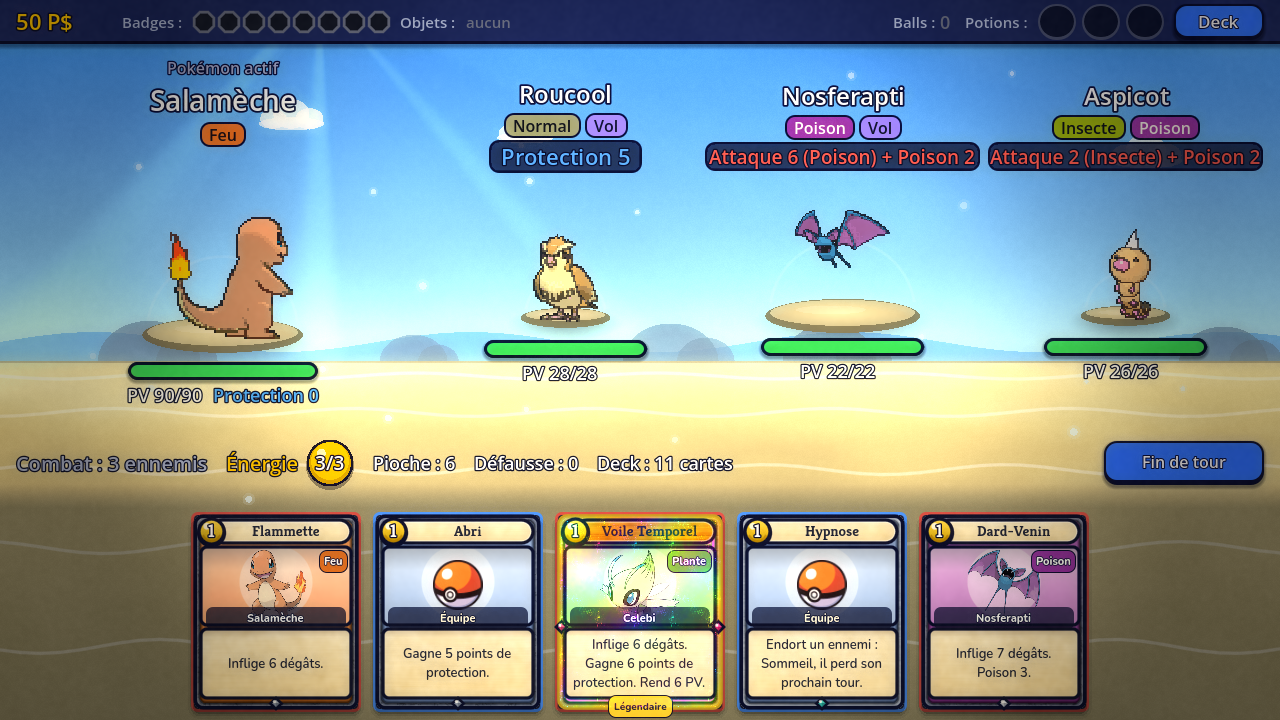
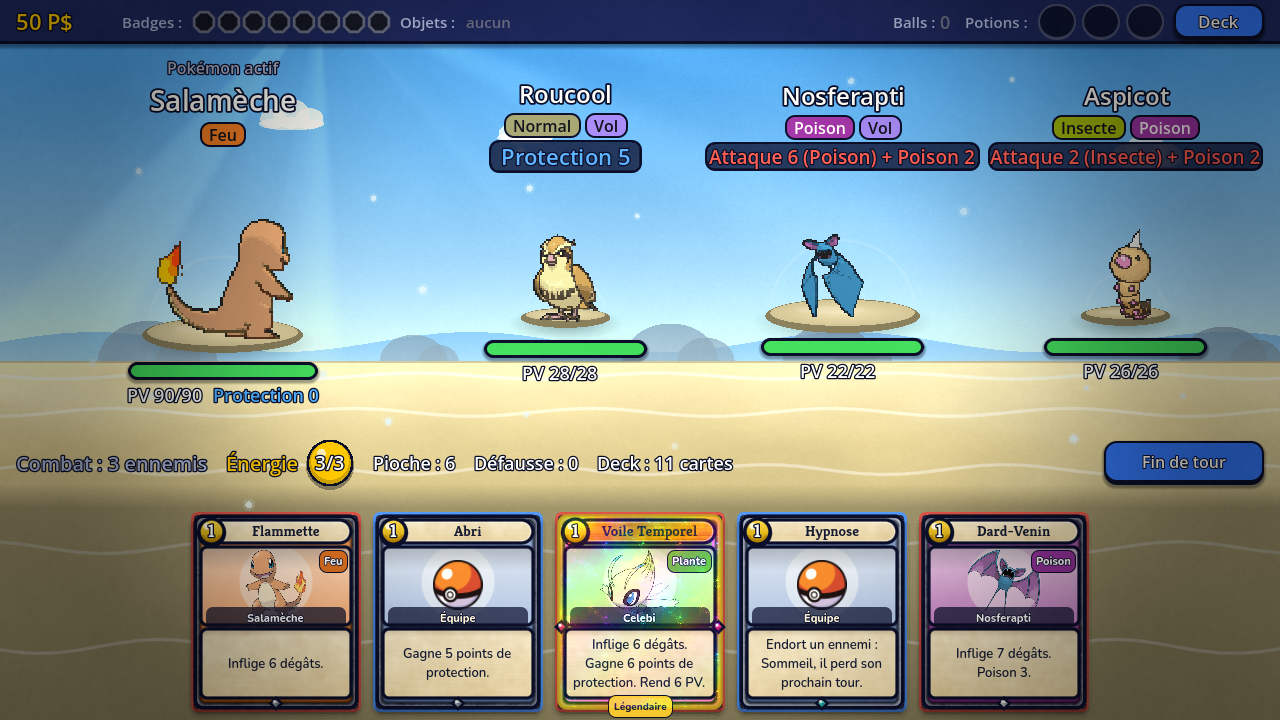
feat: premium cards (rarity materials, holo foil, hover tilt), Kreon/Nunito fonts, post-fx finish; story 020b evidence
Story: pokemon-spire 020b

Claude-Session: https://claude.ai/code/session_01PhvxWc1QeuWwyXRJo7GgvA

diff --git a/tools/art/ui_textures.py b/tools/art/ui_textures.py
@@ -1,0 +1,68 @@
+"""Story 020b: procedural UI / card textures (tileable). Run: python3 tools/art/ui_textures.py assets/art/ui"""
+import sys, os
+import numpy as np
+from PIL import Image
+out = sys.argv[1]; os.makedirs(out, exist_ok=True)
+rng = np.random.default_rng(2020)
+
+def tile_noise(n, scales, weights):
+    """Tileable fractal noise via FFT-filtered white noise, normalised to 0..1."""
+    acc = np.zeros((n, n))
+    for s, w in zip(scales, weights):
+        white = rng.standard_normal((n, n))
+        f = np.fft.fftfreq(n)
+        fx, fy = np.meshgrid(f, f)
+        r = np.sqrt(fx**2 + fy**2)
+        filt = np.exp(-(r * s) ** 2)
+        layer = np.real(np.fft.ifft2(np.fft.fft2(white) * filt))
+        layer = (layer - layer.mean()) / (layer.std() + 1e-9)
+        acc += layer * w
+    acc = (acc - acc.min()) / (acc.max() - acc.min())
+    return acc
+
+def streaks(n, length, vertical=False):
+    """Brushed-metal streaks: white noise blurred along one axis (wraps)."""
+    white = rng.standard_normal((n, n))
+    f = np.fft.fftfreq(n)
+    fx, fy = np.meshgrid(f, f)
+    a, b = (fy, fx) if vertical else (fx, fy)
+    filt = np.exp(-(a * length) ** 2 - (b * 1.2) ** 2)
+    layer = np.real(np.fft.ifft2(np.fft.fft2(white) * filt))
+    return (layer - layer.min()) / (layer.max() - layer.min())
+
+def save(name, arr):
+    arr = np.clip(arr, 0, 1)
+    img = Image.fromarray((arr * 255).astype(np.uint8))
+    img.save(os.path.join(out, name)); print(name, img.size, img.mode)
+
+def lerp3(c0, c1, t):
+    c0 = np.array(c0) / 255.0; c1 = np.array(c1) / 255.0
+    return c0[None, None, :] * (1 - t[..., None]) + c1[None, None, :] * t[..., None]
+
+N = 512
+# Grain / panel noise (grey, 256 tile): fine + medium, centred on 0.5.
+g = tile_noise(256, [180, 40, 8], [0.6, 0.3, 0.5])
+save("ui_noise.png", g)
+# Card body grain: near-white so it multiplies the type colour gently.
+cg = tile_noise(N, [200, 30, 6], [0.5, 0.35, 0.4])
+save("card_grain.png", np.stack([0.80 + 0.20 * cg] * 3, -1))
+# Parchment: warm cream, fibres + soft blotches.
+blot = tile_noise(N, [30, 10], [0.6, 0.6]); fib = streaks(N, 60)
+t = 0.55 * blot + 0.25 * fib + 0.2 * tile_noise(N, [220], [1])
+p = lerp3((222, 205, 168), (255, 250, 236), t)
+save("ui_parchment.png", p)
+# Slate / stone (common, starter): blue-grey mottled with darker veins.
+st = tile_noise(N, [120, 40, 12, 4], [0.25, 0.4, 0.6, 0.5])
+vein = np.abs(tile_noise(N, [14, 5], [0.7, 0.4]) - 0.5) < 0.018
+s = lerp3((70, 76, 90), (160, 166, 178), st)
+s[vein] *= 0.72
+save("card_stone.png", s)
+# Brushed silver (uncommon).
+br = streaks(N, 140); mot = tile_noise(N, [10], [1])
+t = 0.6 * br + 0.4 * mot
+save("card_silver.png", lerp3((128, 136, 150), (236, 240, 246), t))
+# Brushed gold (rare / legendary).
+br = streaks(N, 140); mot = tile_noise(N, [12, 40], [0.8, 0.3])
+t = 0.55 * br + 0.45 * mot
+gold = lerp3((150, 98, 24), (255, 226, 120), t)
+save("card_gold.png", gold)

diff --git a/design/art-bible.md b/design/art-bible.md
@@ -3,6 +3,9 @@
 > Story 020 « Style graphique ». Style validé par le joueur : **« Cartoon vectoriel lumineux »**.
 > Code de référence : `src/ui/ui_style.gd` (`UiStyle`, constantes + fabriques de styles) et `src/ui/card_view.gd` (cartes).
 > **Tout est dessiné en code** (StyleBoxFlat, `_draw`, dégradés) ; seules images : sprites et artworks officiels des Pokémon.
+> **Story 020b « Refonte premium »** (retour joueur : « ça fait jeu flash ») : polices embarquées, textures de matière
+> générées en code (Python PIL, `assets/art/ui/`), cadres de carte selon la rareté, effet holographique, survol animé,
+> finition d'image globale (`PostFx`). Shaders : `src/ui/shaders/` (`card_*`, `ui_*`, `post_*`).
 
 ## 1. Principes
 
@@ -56,7 +59,12 @@ Le texte posé sur une couleur de type est blanc **avec contour sombre**, ou som
 
 ## 3. Typographie
 
-Police **par défaut de Godot** (pas de police embarquée), hiérarchie par taille et contour (`UiStyle.apply_label`) :
+**Story 020b — polices libres (SIL OFL 1.1, licences à côté des fichiers)** :
+- **Kreon** Bold (graisse 700, `assets/fonts/kreon/`) — empattements doux, la famille de Slay the Spire : titres, en-têtes, nombres, **noms de carte**, coût. `UiStyle.font_title()`.
+- **Nunito** (`assets/fonts/nunito/`) — arrondie, très lisible : SemiBold 600 pour le texte et les descriptions de carte (`font_body()`, police par défaut du thème), ExtraBold 800 pour les boutons et pastilles (`font_bold()`).
+- Les rôles `title` / `heading` / `number` utilisent Kreon ; un Label d'écran de taille ≥ 24 reçoit Kreon automatiquement (`style_screen`).
+
+Hiérarchie par taille et contour (`UiStyle.apply_label`) :
 
 | Rôle | Taille | Contour | Couleur |
 |---|---|---|---|
@@ -74,6 +82,17 @@ Carte 170×200 : nom 15, coût 18, description 13 (rétrécit jusqu'à 10 si né
 - Panneau : rayon **14**, contour **3 px** `OUTLINE`, fond `BG_PANEL`, ombre 6 px noir 35 %, marges internes 12/10.
 - Bouton : rayon **12**, contour 2 px `OUTLINE` + **bas 5 px** couleur foncée (relief). Survol : +12 % clair. Appuyé : bas 2 px (le bouton « s'enfonce »). Désactivé : gris `#5A6078`, texte `#A0A6BC`. Focus clavier : anneau `ACCENT_YELLOW` 3 px.
 - Pastille (badge de type, statut) : rayon 9, contour 2 px, texte 13–16.
+- **Finition matière (020b, `ui_sheen.gdshader`)** posée par `style_screen` sur chaque panneau / bouton opaque (StyleBoxFlat inchangé dessous, même rayon, sous le contour) : grain du bruit généré, léger marbrage, lumière douce en haut / ombre en bas, **liseré clair interne** sous le bord haut (biseau). Boutons : lumière plus marquée (dégradé + reflet), pas de grain fort. Panneaux et boutons transparents (< 50 %) : pas de finition.
+
+### Textures générées (`assets/art/ui/`, 512 px sauf bruit 256 px, raccordables)
+| Fichier | Matière | Usage |
+|---|---|---|
+| `ui_noise.png` | bruit gris fractal | grain des panneaux / boutons, grain d'image, étincelles du holo |
+| `card_grain.png` | grain presque blanc | fond de carte (multiplie la couleur du type) |
+| `ui_parchment.png` | parchemin crème, fibres | bandeau de nom, cartouche de description |
+| `card_stone.png` | ardoise bleu-gris veinée | cadre des cartes Départ et Commune |
+| `card_silver.png` | argent brossé | cadre des cartes Peu commune |
+| `card_gold.png` | or brossé | cadre des cartes Rare et Légendaire |
 
 ## 5. Icônes (toutes dessinées en code)
 
@@ -144,3 +163,22 @@ Le bouton appelant garde son anneau extérieur (rareté, sélection, état) ; la
 └──────────◆──────────────┘  gemme de rareté (couleur de rareté) ; légendaire : ruban « Légendaire »
 ```
 Survol : liseré blanc lumineux. Carte injouable : face à 45 % d'opacité (géré par l'écran de combat).
+
+### Carte premium (story 020b, `CardFace`)
+- **Cadre en matière selon la rareté** : bande de 6 px (réf. 194 px de haut) en ardoise (Départ / Commune), argent brossé (Peu commune), or (Rare), **or + deux gemmes taillées magenta** sur les côtés (Légendaire, + liseré rose interne). Matière teintée à 10 % par la couleur du type ; le **corps** reste à la couleur du type (dégradé sur grain).
+- **Biseau** : liseré clair sur la bande, ombre interne sombre là où le corps passe sous le cadre ; ombre interne en haut de la fenêtre d'illustration et de la description.
+- **Bandeau de nom et description en parchemin** (or brossé pour le bandeau légendaire) ; nom en Kreon, description en Nunito.
+- **Ombre portée douce** sous la carte (3 couches, 4 px ; 9 px au survol).
+- **Holo animé** (`card_holo.gdshader`, superposition additive) sur Rare (0,30) et Légendaire (0,40) : bandes arc-en-ciel diagonales qui glissent avec le temps et la souris + étincelles ; atténué à 20 % sur la description pour garder le texte lisible.
+- **Survol** (toutes les cartes, jouables ou non) : la face grandit à **×1,08** (pivot en bas au centre, tween 0,14 s), s'**incline jusqu'à 2,5°** vers le curseur, passe au premier plan (z 10) et reçoit un reflet discret qui suit la souris ; le liseré lumineux reste réservé aux cartes jouables. Purement visuel : le bouton garde sa taille, sa place et ses clics.
+
+## 8. Finition d'image (story 020b, `PostFx`)
+
+`PostFx` (CanvasLayer 120, au-dessus de tout, ignore la souris), ajouté une fois par `Main` ; `post_finish.gdshader` lit l'écran :
+| Effet | Réglage par défaut | Remarque |
+|---|---|---|
+| Étalonnage | saturation ×1,06, contraste ×1,05, ombres légèrement froides / hautes lumières à peine chaudes | doux, la palette reste celle du §2 |
+| Vignette | −38 % au bord, début à ~45 % du rayon | recentre le regard |
+| Grain | ±2,2 %, rafraîchi 12 fois / s | grain de film, pas de scintillement |
+| Halo | **désactivé** (`halo_strength` 0, seuil 0,92) | voilait les décors clairs et adoucissait le texte ; réglage disponible |
+Coût : 1 appel de dessin + 1 copie d'écran par image, 2 lectures de texture par pixel (18 avec le halo). `set_enabled(false)` coupe tout (future option graphique).

diff --git a/production/qa/evidence/story-020b-refonte-visuelle-premium-evidence.md b/production/qa/evidence/story-020b-refonte-visuelle-premium-evidence.md
@@ -1,0 +1,20 @@
+# Story 020b — Refonte visuelle premium : preuve et validation
+
+**Story** : `production/epics/pokemon-spire/story-020b-refonte-visuelle-premium.md` (Visual/Feel)
+**Captures** : `production/qa/evidence/story-020b-refonte-visuelle-premium/` (voir README.md)
+
+| Critère | Preuve |
+|---|---|
+| Pokémon animés, joueur vu de dos | `1x-*.png` |
+| Sprites d'objets / potions / Balls | `2x-mart.png`, `2x-carte-chemin-parcouru.png` (barre du haut), `2x-recompense-objet.png`, `2x-evenement-objet.png` |
+| Cartes premium (matière, holo, survol) | `3x-main-raretes.png`, `3x-carte-survolee-*.png`, `3x-recompense.png` |
+| Polices et finitions | toutes (Kreon + Nunito, vignette, grain, panneaux texturés) |
+| Carte façon parchemin | `2x-carte-*.png` |
+| Décors peints prêts à intégrer | `design/art/backdrop-prompts.md` ; chargement de `assets/art/backdrops/<id>.png` (pas encore d'image) |
+| 1280×720 sans coupure | toutes ; main `hand_bottom=712/720 fits=true` |
+
+## Sign-off
+
+| Rôle | Statut |
+|---|---|
+| Joueur / direction artistique | [ ] Approved |

diff --git a/production/qa/evidence/story-020b-refonte-visuelle-premium/README.md b/production/qa/evidence/story-020b-refonte-visuelle-premium/README.md
@@ -1,0 +1,10 @@
+# Story 020b — Refonte visuelle premium : captures
+
+Générées par `tools/qa/battle_walkthrough.gd` (jeu `story-020b`) en 1280×720 :
+`xvfb-run -a -s "-screen 0 1280x720x24" godot --path . --windowed --resolution 1280x720 -s res://tools/qa/battle_walkthrough.gd -- production/qa/evidence/story-020b-refonte-visuelle-premium story-020b`
+
+- `1x-*` : combat avec Pokémon animés (dos pour le joueur), décors avec brume / lumière / profondeur (route, feu, eau, spectre, plante, psy, ténèbres, Conseil 4, Éthernatos, vol, dragon, électrik).
+- `2x-*` : carte parchemin (début de zone, chemin parcouru, zones 5 et 7), Poké Mart avec illustrations d'objets, barre du haut (objets, Balls, potions), récompense et événement avec objet.
+- `3x-*` : cartes premium (matières par rareté, holo sur rares / légendaires, survol), récompense, deck, titre (polices Kreon + Nunito).
+
+Main en combat : `hand_bottom=712/720 fits=true` sur les 17 captures de combat.
